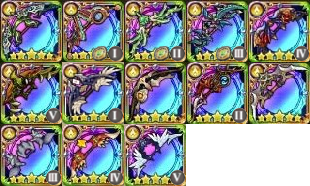
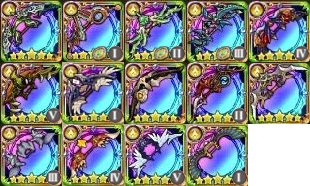
Update

Changed region(s): [[0.5806, 0.6452, 0.8129, 1.0]]

diff --git a/docs/list-weapons.md b/docs/list-weapons.md
@@ -123,6 +123,7 @@ EQ | Name | Slot | Auto | Special
 <img src="https://raw.githubusercontent.com/caelumff/bdfeguides/master/icons/KNG3-11.jpg" width="60" alt="Sword"> | <a href="list-names.md#-halloween-2018">Guillotine</a> | 3 |  -  | Phalanx 1<br>Endure<br>
 <img src="https://raw.githubusercontent.com/caelumff/bdfeguides/master/icons/KNG3-12.jpg" width="60" alt="Sword"> | <a href="list-names.md#-christmas-2018">Blessing</a> | 4 |  -  | Water AoE Taunt<br>
 <img src="https://raw.githubusercontent.com/caelumff/bdfeguides/master/icons/KNG3-13.jpg" width="60" alt="Sword"> | <a href="list-names.md#-danmachi">Heavenly</a> | 5 | Buff<br> | Mono Regen 3<br><img src="https://caelum.s-ul.eu/7tZLFGPP.png" width="25" alt="Slot Effect"> Dueling 1<br>
+<img src="https://raw.githubusercontent.com/caelumff/bdfeguides/master/icons/KNG3-14.jpg" width="60" alt="Sword"> | <a href="list-names.md#-golden">Golden</a> | 1 |  -  | Mono Phalanx 3<br><img src="https://caelum.s-ul.eu/7tZLFGPP.png" width="25" alt="Slot Effect"> Testudo 1<br>
 
 ## <img src="https://caelum.s-ul.eu/d7KNBOoa.png" width="25" alt="Wind"> Wind Swords
 
@@ -202,6 +203,7 @@ EQ | Name | Slot | Auto | Special
 <img src="https://raw.githubusercontent.com/caelumff/bdfeguides/master/icons/BLM3-11.jpg" width="60" alt="Rod"> | <a href="list-names.md#-halloween-2018">Broomstick</a> | 3 |  -  | Brave 2<br>
 <img src="https://raw.githubusercontent.com/caelumff/bdfeguides/master/icons/BLM3-12.jpg" width="60" alt="Rod"> | <a href="list-names.md#-christmas-2018">Blessing</a> | 4 | Buff<br> | Reload minus<br>
 <img src="https://raw.githubusercontent.com/caelumff/bdfeguides/master/icons/BLM3-13.jpg" width="60" alt="Rod"> | <a href="list-names.md#-danmachi">Heavenly</a> | 5 |  -  | Aspir 2<br>Fast Cast 2<br><img src="https://caelum.s-ul.eu/7tZLFGPP.png" width="25" alt="Slot Effect"> Limit Break 1<br>
+<img src="https://raw.githubusercontent.com/caelumff/bdfeguides/master/icons/BLM3-14.jpg" width="60" alt="Rod"> | <a href="list-names.md#-golden">Golden</a> | 1 |  -  | 3 Hit<br>MA/MD Up<br>
 
 ## <img src="https://caelum.s-ul.eu/d7KNBOoa.png" width="25" alt="Wind"> Wind Rods
 
@@ -281,6 +283,7 @@ EQ | Name | Slot | Auto | Special
 <img src="https://raw.githubusercontent.com/caelumff/bdfeguides/master/icons/WHM3-11.jpg" width="60" alt="Book"> | <a href="list-names.md#-halloween-2018">Cat Foot</a> | 3 |  -  | 2 Row<br>Brave 2<br>Proud 2<br>
 <img src="https://raw.githubusercontent.com/caelumff/bdfeguides/master/icons/WHM3-12.jpg" width="60" alt="Book"> | <a href="list-names.md#-christmas-2018">Blessing</a> | 4 |  -  | 2 Row Heal<br>BP Recovery<br>
 <img src="https://raw.githubusercontent.com/caelumff/bdfeguides/master/icons/WHM3-13.jpg" width="60" alt="Book"> | <a href="list-names.md#-danmachi">Heavenly</a> | 5 | Attack<br> | Heal<br>Cleanse<br>Default 2<br><img src="https://caelum.s-ul.eu/7tZLFGPP.png" width="25" alt="Slot Effect"> Mind 1<br>
+<img src="https://raw.githubusercontent.com/caelumff/bdfeguides/master/icons/WHM3-14.jpg" width="60" alt="Book"> | <a href="list-names.md#-golden">Golden</a> | 1 | Attack<br> | Heal<br>Enhance Area 2<br><img src="https://caelum.s-ul.eu/7tZLFGPP.png" width="25" alt="Slot Effect"> Proud 1<br>
 
 ## <img src="https://caelum.s-ul.eu/d7KNBOoa.png" width="25" alt="Wind"> Wind Books
 
@@ -360,6 +363,7 @@ EQ | Name | Slot | Auto | Special
 <img src="https://raw.githubusercontent.com/caelumff/bdfeguides/master/icons/THF3-11.jpg" width="60" alt="Dagger"> | <a href="list-names.md#-halloween-2018">DualBoneMeat</a> | 3 |  -  | Focus 2<br>
 <img src="https://raw.githubusercontent.com/caelumff/bdfeguides/master/icons/THF3-12.jpg" width="60" alt="Dagger"> | <a href="list-names.md#-christmas-2018">Blessing</a> | 4 | 3 Hit<br> | AoE<br><img src="https://caelum.s-ul.eu/7tZLFGPP.png" width="25" alt="Slot Effect"> Party Quick 1<br>
 <img src="https://raw.githubusercontent.com/caelumff/bdfeguides/master/icons/THF3-13.jpg" width="60" alt="Dagger"> | <a href="list-names.md#-danmachi">Heavenly</a> | 5 |  -  | Row Assault 3<br><img src="https://caelum.s-ul.eu/7tZLFGPP.png" width="25" alt="Slot Effect"> Shadow 1<br>
+<img src="https://raw.githubusercontent.com/caelumff/bdfeguides/master/icons/THF3-14.jpg" width="60" alt="Dagger"> | <a href="list-names.md#-golden">Golden</a> | 1 |  -  | Dagger Stance<br><img src="https://caelum.s-ul.eu/7tZLFGPP.png" width="25" alt="Slot Effect"> Assault 1<br>
 
 ## <img src="https://caelum.s-ul.eu/d7KNBOoa.png" width="25" alt="Wind"> Wind Daggers
 
@@ -439,6 +443,7 @@ EQ | Name | Slot | Auto | Special
 <img src="https://raw.githubusercontent.com/caelumff/bdfeguides/master/icons/RNG3-11.jpg" width="60" alt="Bow"> | <a href="list-names.md#-halloween-2018">Silver Bullet</a> | 3 |  -  | Heal<br>Hawkeye 2<br>
 <img src="https://raw.githubusercontent.com/caelumff/bdfeguides/master/icons/RNG3-12.jpg" width="60" alt="Bow"> | <a href="list-names.md#-christmas-2018">Blessing</a> | 4 | AoE<br> | AoE<br>Weakness 2<br><img src="https://caelum.s-ul.eu/7tZLFGPP.png" width="25" alt="Slot Effect"> Debuff Extend<br>
 <img src="https://raw.githubusercontent.com/caelumff/bdfeguides/master/icons/RNG3-13.jpg" width="60" alt="Bow"> | <a href="list-names.md#-danmachi">Heavenly</a> | 5 |  -  | Mono Weakness 3<br><img src="https://caelum.s-ul.eu/7tZLFGPP.png" width="25" alt="Slot Effect"> Hawkeye 1<br>
+<img src="https://raw.githubusercontent.com/caelumff/bdfeguides/master/icons/RNG3-14.jpg" width="60" alt="Bow"> | <a href="list-names.md#-golden">Golden</a> | 1 |  -  | Earth Chaser 2<br><img src="https://caelum.s-ul.eu/7tZLFGPP.png" width="25" alt="Slot Effect"> Slow 1<br>
 
 ## <img src="https://caelum.s-ul.eu/d7KNBOoa.png" width="25" alt="Wind"> Wind Bows
 

diff --git a/docs/list-weapons-jp.md b/docs/list-weapons-jp.md
@@ -66,6 +66,7 @@
 <img src="https://raw.githubusercontent.com/caelumff/bdfeguides/master/icons/KNG3-11.jpg" width="60" alt="大剣"> | ギロチンブレード | III | - | ファランクス I<br>たえる<br>
 <img src="https://raw.githubusercontent.com/caelumff/bdfeguides/master/icons/KNG3-12.jpg" width="60" alt="大剣"> | 祝福の聖剣 | IV | - | 対水全体挑発<br>
 <img src="https://raw.githubusercontent.com/caelumff/bdfeguides/master/icons/KNG3-13.jpg" width="60" alt="大剣"> | ヘブンリーソード | V | バフ<br> | 染めリジェネ III<br><img src="https://caelum.s-ul.eu/7tZLFGPP.png" width="25" alt="枠適正"> デュエリング I<br>
+<img src="https://raw.githubusercontent.com/caelumff/bdfeguides/master/icons/KNG3-14.jpg" width="60" alt="大剣"> | 黄金の宝剣 | I | - | 染めファランクス III<br><img src="https://caelum.s-ul.eu/7tZLFGPP.png" width="25" alt="枠適正"> テストゥド I<br>
 
 ## <img src="https://caelum.s-ul.eu/d7KNBOoa.png" width="25" alt="風"> 風大剣
 
@@ -145,6 +146,7 @@
 <img src="https://raw.githubusercontent.com/caelumff/bdfeguides/master/icons/BLM3-11.jpg" width="60" alt="ロッド"> | 黒猫の魔法使い | III | - | ブレイブ II<br>
 <img src="https://raw.githubusercontent.com/caelumff/bdfeguides/master/icons/BLM3-12.jpg" width="60" alt="ロッド"> | ブレッシングホーン | IV | バフ<br> | リロ減少<br>
 <img src="https://raw.githubusercontent.com/caelumff/bdfeguides/master/icons/BLM3-13.jpg" width="60" alt="ロッド"> | ヘブンリーロッド | V | - | アスピル II<br>早口 II<br><img src="https://caelum.s-ul.eu/7tZLFGPP.png" width="25" alt="枠適正"> リミブレ I<br>
+<img src="https://raw.githubusercontent.com/caelumff/bdfeguides/master/icons/BLM3-14.jpg" width="60" alt="ロッド"> | 黄金のカドゥケウス | I | - | 三段<br>魔攻魔防アップ<br>
 
 ## <img src="https://caelum.s-ul.eu/d7KNBOoa.png" width="25" alt="風"> 風ロッド
 
@@ -224,6 +226,7 @@
 <img src="https://raw.githubusercontent.com/caelumff/bdfeguides/master/icons/WHM3-11.jpg" width="60" alt="ブック"> | 黒猫の足音 | III | - | 二列<br>ブレイブ II<br>プラウド II<br>
 <img src="https://raw.githubusercontent.com/caelumff/bdfeguides/master/icons/WHM3-12.jpg" width="60" alt="ブック"> | 祝福の聖歌 | IV | - | 二列回復<br>BP回復<br>
 <img src="https://raw.githubusercontent.com/caelumff/bdfeguides/master/icons/WHM3-13.jpg" width="60" alt="ブック"> | ヘブンリーレコード | V | 攻撃<br> | 回復<br>デバフ全解除<br>デフォルト II<br><img src="https://caelum.s-ul.eu/7tZLFGPP.png" width="25" alt="枠適正"> マインド I<br>
+<img src="https://raw.githubusercontent.com/caelumff/bdfeguides/master/icons/WHM3-14.jpg" width="60" alt="ブック"> | 黄金のパピルス | I | 攻撃<br> | 回復<br>エンハンスエリア II<br><img src="https://caelum.s-ul.eu/7tZLFGPP.png" width="25" alt="枠適正"> プラウド I<br>
 
 ## <img src="https://caelum.s-ul.eu/d7KNBOoa.png" width="25" alt="風"> 風ブック
 
@@ -303,6 +306,7 @@
 <img src="https://raw.githubusercontent.com/caelumff/bdfeguides/master/icons/THF3-11.jpg" width="60" alt="双剣"> | デュアルボーンミート | III | - | フォーカス II<br>
 <img src="https://raw.githubusercontent.com/caelumff/bdfeguides/master/icons/THF3-12.jpg" width="60" alt="双剣"> | 祝福の礼剣 | IV | 三段<br> | 全体<br><img src="https://caelum.s-ul.eu/7tZLFGPP.png" width="25" alt="枠適正"> 味方全体クイック I<br>
 <img src="https://raw.githubusercontent.com/caelumff/bdfeguides/master/icons/THF3-13.jpg" width="60" alt="双剣"> | ヘブンリーエッジ | V | - | 列アサルト III<br><img src="https://caelum.s-ul.eu/7tZLFGPP.png" width="25" alt="枠適正"> シャドウ I<br>
+<img src="https://raw.githubusercontent.com/caelumff/bdfeguides/master/icons/THF3-14.jpg" width="60" alt="双剣"> | 黄金のケペシュ | I | - | 双剣の構え<br><img src="https://caelum.s-ul.eu/7tZLFGPP.png" width="25" alt="枠適正"> アサルト I<br>
 
 ## <img src="https://caelum.s-ul.eu/d7KNBOoa.png" width="25" alt="風"> 風双剣
 
@@ -382,6 +386,7 @@
 <img src="https://raw.githubusercontent.com/caelumff/bdfeguides/master/icons/RNG3-11.jpg" width="60" alt="弓"> | シルバーブレッド | III | - | 回復<br>ホークアイ II<br>
 <img src="https://raw.githubusercontent.com/caelumff/bdfeguides/master/icons/RNG3-12.jpg" width="60" alt="弓"> | スターオブキャロル | IV | 全体<br> | 全体<br>ウィークネス II<br><img src="https://caelum.s-ul.eu/7tZLFGPP.png" width="25" alt="枠適正"> デバフ延長<br>
 <img src="https://raw.githubusercontent.com/caelumff/bdfeguides/master/icons/RNG3-13.jpg" width="60" alt="弓"> | ヘブンリーアロー | V | - | 染めウィークネス III<br><img src="https://caelum.s-ul.eu/7tZLFGPP.png" width="25" alt="枠適正"> ホークアイ I<br>
+<img src="https://raw.githubusercontent.com/caelumff/bdfeguides/master/icons/RNG3-14.jpg" width="60" alt="弓"> | 黄金の光弓 | I | - | 土チェイサー II<br><img src="https://caelum.s-ul.eu/7tZLFGPP.png" width="25" alt="枠適正"> スロウ I<br>
 
 ## <img src="https://caelum.s-ul.eu/d7KNBOoa.png" width="25" alt="風"> 風弓
 

diff --git a/docs/list-names.md b/docs/list-names.md
@@ -45,7 +45,7 @@
 [Japan Folklore](#-japan-folklore) | [Sports 2018](#-sports-2018) | [Halloween 2018](#-halloween-2018) | [Grimms Notes Repage](#-grimms-notes-repage)
 [Lotus](#-lotus) | [Sergeant Keroro](#-sergeant-keroro) | [Christmas 2018](#-christmas-2018) | [Valentine's 2019](#-valentines-2019)
 [Retro Modern](#-retro-modern) | [Bravely Default Praying Brage](#-bravely-default-praying-brage) | [Danmachi](#-danmachi) | [Dress Up](#-dress-up)
-[Rose](#-rose) | [Steampunk](#-steampunk) | \- | [Final Fantasy Brave Exvius](#-final-fantasy-brave-exvius)
+[Rose](#-rose) | [Steampunk](#-steampunk) | [Golden](#-golden) | [Final Fantasy Brave Exvius](#-final-fantasy-brave-exvius)
 [1st Anniversary](#-1st-anniversary) | [Valkyrie Profile](#-valkyrie-profile) | \- | [2nd Anniversary](#-2nd-anniversary)
 
 # Fire Weapons
@@ -525,6 +525,17 @@ EQ | Names
 <img src="https://raw.githubusercontent.com/caelumff/bdfeguides/master/icons/WHM3-13.jpg" width="60" alt="Book"> | <a href="list-weapons.md#-earth-books">ヘブンリーレコード</a><br>Heavenly Record
 <img src="https://raw.githubusercontent.com/caelumff/bdfeguides/master/icons/THF3-13.jpg" width="60" alt="Dagger"> | <a href="list-weapons.md#-earth-daggers">ヘブンリーエッジ</a><br>Heavenly Edge
 <img src="https://raw.githubusercontent.com/caelumff/bdfeguides/master/icons/RNG3-13.jpg" width="60" alt="Bow"> | <a href="list-weapons.md#-earth-bows">ヘブンリーアロー</a><br>Heavenly Arrow
+
+## <img src="https://caelum.s-ul.eu/hLKNs6KH.png" width="25" alt="Earth"> Golden
+**Slot: 1**<br>This series is based on Ancient Egypt
+
+EQ | Names
+:-:|---
+<img src="https://raw.githubusercontent.com/caelumff/bdfeguides/master/icons/KNG3-14.jpg" width="60" alt="Sword"> | <a href="list-weapons.md#-earth-swords">黄金の宝剣</a><br>Golden Sword
+<img src="https://raw.githubusercontent.com/caelumff/bdfeguides/master/icons/BLM3-14.jpg" width="60" alt="Rod"> | <a href="list-weapons.md#-earth-rods">黄金のカドゥケウス</a><br>Golden Caduceus
+<img src="https://raw.githubusercontent.com/caelumff/bdfeguides/master/icons/WHM3-14.jpg" width="60" alt="Book"> | <a href="list-weapons.md#-earth-books">黄金のパピルス</a><br>Golden Papyrus
+<img src="https://raw.githubusercontent.com/caelumff/bdfeguides/master/icons/THF3-14.jpg" width="60" alt="Dagger"> | <a href="list-weapons.md#-earth-daggers">黄金のケペシュ</a><br>Golden Khopesh
+<img src="https://raw.githubusercontent.com/caelumff/bdfeguides/master/icons/RNG3-14.jpg" width="60" alt="Bow"> | <a href="list-weapons.md#-earth-bows">黄金の光弓</a><br>Golden Bow
 
 
 # Wind Weapons
